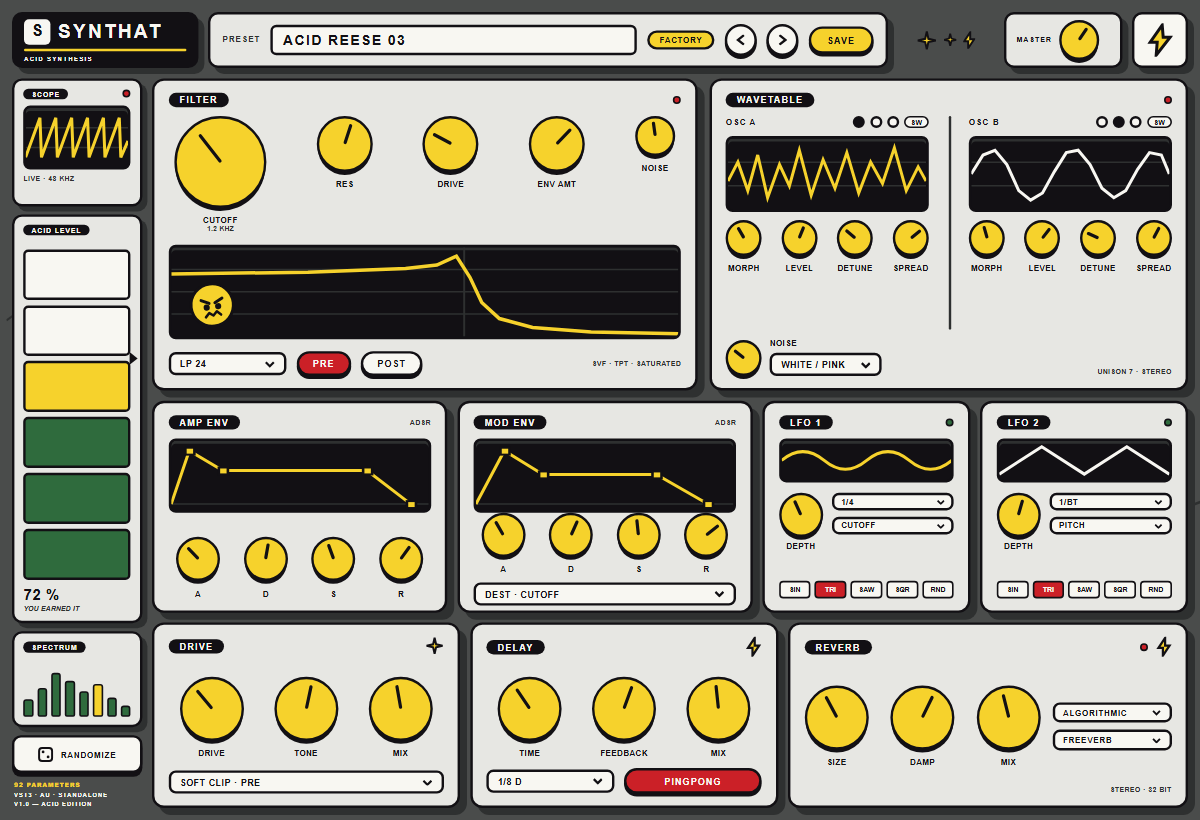
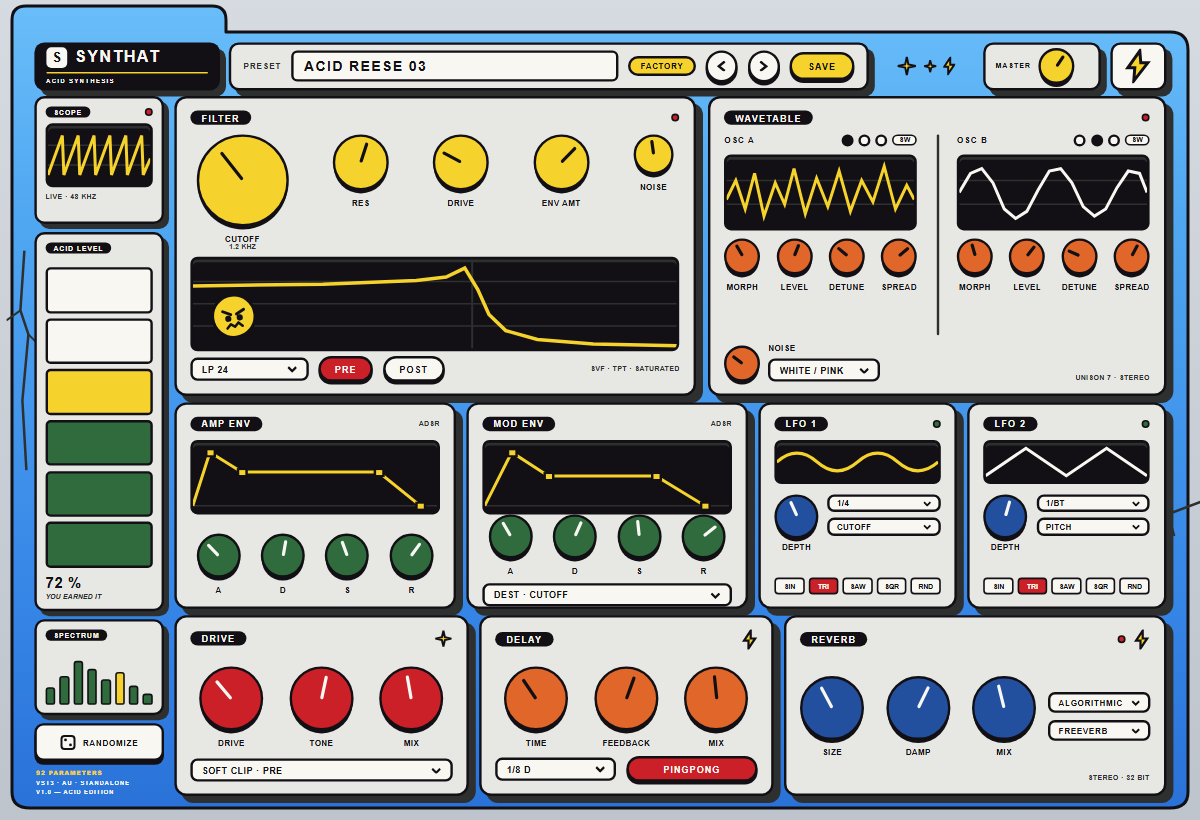
feat: scocca a cartella macOS stilizzata e colori per sezione
La finestra diventa una cartella blu con linguetta in alto a sinistra (path SVG
con contorno inchiostro, ombre piatte street-ink) e i pannelli ci stanno dentro
come fogli. Ripristinata la variazione colore delle manopole per famiglia:
filtro giallo, wavetable/delay arancio, inviluppi verdi, LFO/reverb blu, drive
rosso.

🤖 Generated with Codebuff

diff --git a/synthat/index.html b/synthat/index.html
@@ -13,25 +13,28 @@
     --giallo:#F6D22C;
     --rosso:#CB2027;
     --verde:#2F6B3D;
+    --arancio:#E0662A;
+    --blu:#23509E;
   }
   *{box-sizing:border-box;margin:0;padding:0}
-  html,body{width:1200px;height:820px;overflow:hidden;background:var(--asfalto)}
+  html,body{width:1200px;height:820px;overflow:hidden;background:linear-gradient(180deg,#D6DBE1,#BEC4CC)}
   body{
     font-family:"Arial Narrow","Liberation Sans Narrow","Helvetica Neue",Arial,sans-serif;
     font-weight:700;text-transform:uppercase;letter-spacing:.07em;
     font-size:9px;color:var(--ink);-webkit-font-smoothing:antialiased;
   }
-  .art{position:relative;width:1200px;height:820px;background:var(--asfalto);overflow:hidden}
+  .art{position:relative;width:1200px;height:820px;overflow:hidden}
+  .shell{position:absolute;inset:0}
 
   /* ---------- struttura ---------- */
-  .head{position:absolute;top:12px;left:12px;right:12px;height:56px;display:flex;align-items:stretch;gap:10px}
-  .main{position:absolute;top:78px;left:12px;right:12px;bottom:12px;display:flex;gap:10px}
+  .head{position:absolute;top:42px;left:34px;right:34px;height:48px;display:flex;align-items:stretch;gap:9px}
+  .main{position:absolute;top:96px;left:34px;right:34px;bottom:24px;display:flex;gap:10px}
   .rail{width:130px;flex:none;display:flex;flex-direction:column;gap:8px}
-  .grid{flex:1;display:flex;flex-direction:column;gap:10px;min-width:0}
+  .grid{flex:1;display:flex;flex-direction:column;gap:6px;min-width:0}
   .row{display:flex;gap:12px;min-width:0}
-  .r1{height:314px}
-  .r2{height:212px;gap:10px}
-  .r3{height:186px;gap:10px}
+  .r1{height:300px}
+  .r2{height:207px;gap:10px}
+  .r3{height:181px;gap:10px}
 
   .panel{
     background:var(--panel);border:3px solid var(--ink);border-radius:12px;
@@ -64,6 +67,12 @@
   .k48{width:48px;height:48px}.k44{width:44px;height:44px}.k40{width:40px;height:40px}
   .k36{width:36px;height:36px}.k32{width:32px;height:32px}
   .knobwrap{display:flex;flex-direction:column;align-items:center;gap:9px}
+  /* colore manopole per sezione */
+  .zone-orange .knob{background:var(--arancio)}
+  .zone-green .knob{background:var(--verde)}
+  .zone-blue .knob{background:var(--blu)}
+  .zone-red .knob{background:var(--rosso)}
+  .zone-green .notch,.zone-blue .notch,.zone-red .notch{background:var(--paper)}
   .klab{font-size:7.5px;letter-spacing:.1em;text-align:center;line-height:1.1}
   .kval{font-size:6.5px;letter-spacing:.06em;color:var(--giunto);margin-top:1px}
 
@@ -86,12 +95,12 @@
 
   /* ---------- header ---------- */
   .brand{background:var(--ink);border-radius:10px;box-shadow:6px 6px 0 var(--giunto);
-         padding:7px 12px 6px;display:flex;flex-direction:column;justify-content:center;gap:4px;width:186px;flex:none}
+         padding:5px 12px;display:flex;flex-direction:column;justify-content:center;gap:4px;width:186px;flex:none}
   .brandrow{display:flex;align-items:center;gap:8px}
-  .sbox{width:26px;height:26px;background:var(--paper);border-radius:5px;display:flex;align-items:center;
-        justify-content:center;font-size:16px;letter-spacing:0;color:var(--ink);padding-bottom:2px}
-  .brandtxt{color:var(--paper);font-size:19px;letter-spacing:.12em;line-height:1}
-  .brandrule{height:3px;background:var(--giallo);border-radius:2px}
+  .sbox{width:21px;height:21px;background:var(--paper);border-radius:5px;display:flex;align-items:center;
+        justify-content:center;font-size:13px;letter-spacing:0;color:var(--ink);padding-bottom:1px}
+  .brandtxt{color:var(--paper);font-size:15.5px;letter-spacing:.12em;line-height:1}
+  .brandrule{height:2px;background:var(--giallo);border-radius:2px}
   .brandsub{color:var(--paper);font-size:6px;letter-spacing:.22em;opacity:1}
 
   .presetbar{flex:1;background:var(--panel);border:3px solid var(--ink);border-radius:10px;
@@ -151,6 +160,18 @@
 </head>
 <body>
 <div class="art">
+  <svg class="shell" width="1200" height="820" viewBox="0 0 1200 820" xmlns="http://www.w3.org/2000/svg">
+    <defs>
+      <linearGradient id="fol" x1="0" y1="0" x2="0" y2="1">
+        <stop offset="0" stop-color="#69BDF9"/>
+        <stop offset="0.28" stop-color="#4FA6F1"/>
+        <stop offset="0.75" stop-color="#3585E6"/>
+        <stop offset="1" stop-color="#2A72D8"/>
+      </linearGradient>
+    </defs>
+    <path d="M12 46 V20 Q12 6 26 6 H212 Q226 6 226 20 V32 H1170 Q1188 32 1188 50 V792 Q1188 808 1170 808 H30 Q12 808 12 792 Z"
+          fill="url(#fol)" stroke="#121014" stroke-width="3" stroke-linejoin="round"/>
+  </svg>
 
   <!-- segni d'usura nel fondo finestra -->
   <svg class="mks" style="left:6px;top:250px" width="120" height="220" viewBox="0 0 120 220">
@@ -194,7 +215,7 @@
 
     <div class="mastercard">
       <div class="mlabel">MASTER</div>
-      <div class="knob k40" style="--a:34deg"><i class="notch"></i></div>
+      <div class="knob k36" style="--a:34deg"><i class="notch"></i></div>
     </div>
 
     <div class="boltcard">
@@ -234,7 +255,6 @@
               <div class="seg on"></div>
             </div>
           </div>
-          <div class="pointer"></div>
         </div>
         <div>
           <div class="pct">72 %</div>
@@ -323,7 +343,7 @@
         </div>
 
         <!-- WAVETABLE -->
-        <div class="panel" style="flex:1">
+        <div class="panel zone-orange" style="flex:1">
           <div class="phead"><span class="ptitle">WAVETABLE</span><span class="led"></span></div>
 
           <div class="oscs">
@@ -391,7 +411,7 @@
       <div class="row r2">
 
         <!-- AMP ENV -->
-        <div class="panel" style="flex:1.5">
+        <div class="panel zone-green" style="flex:1.5">
           <div class="phead"><span class="ptitle">AMP ENV</span><span class="note">ADSR</span></div>
           <div class="screen" style="height:74px">
             <svg viewBox="0 0 200 70" preserveAspectRatio="none">
@@ -414,7 +434,7 @@
         </div>
 
         <!-- MOD ENV -->
-        <div class="panel" style="flex:1.5">
+        <div class="panel zone-green" style="flex:1.5">
           <div class="phead"><span class="ptitle">MOD ENV</span><span class="note">ADSR</span></div>
           <div class="screen" style="height:74px">
             <svg viewBox="0 0 200 70" preserveAspectRatio="none">
@@ -440,7 +460,7 @@
         </div>
 
         <!-- LFO 1 -->
-        <div class="panel" style="flex:1">
+        <div class="panel zone-blue" style="flex:1">
           <div class="phead"><span class="ptitle">LFO 1</span><span class="led" style="background:#2F6B3D"></span></div>
           <div class="screen" style="height:44px">
             <svg viewBox="0 0 200 40" preserveAspectRatio="none">
@@ -465,7 +485,7 @@
         </div>
 
         <!-- LFO 2 -->
-        <div class="panel" style="flex:1">
+        <div class="panel zone-blue" style="flex:1">
           <div class="phead"><span class="ptitle">LFO 2</span><span class="led" style="background:#2F6B3D"></span></div>
           <div class="screen" style="height:44px">
             <svg viewBox="0 0 200 40" preserveAspectRatio="none">
@@ -494,7 +514,7 @@
       <div class="row r3">
 
         <!-- DRIVE -->
-        <div class="panel" style="flex:1.5">
+        <div class="panel zone-red" style="flex:1.5">
           <div class="phead"><span class="ptitle">DRIVE</span>
             <svg width="18" height="18" viewBox="0 0 18 18"><path d="M9 1 L10.5 7.5 L17 9 L10.5 10.5 L9 17 L7.5 10.5 L1 9 L7.5 7.5 Z" fill="#F6D22C" stroke="#121014" stroke-width="2"/></svg>
           </div>
@@ -511,7 +531,7 @@
         </div>
 
         <!-- DELAY -->
-        <div class="panel" style="flex:1.5">
+        <div class="panel zone-orange" style="flex:1.5">
           <div class="phead"><span class="ptitle">DELAY</span>
             <svg width="16" height="20" viewBox="0 0 12 18"><path d="M7 1 L1 10 h4 L5 17 L11 8 H7 Z" fill="#F6D22C" stroke="#121014" stroke-width="2"/></svg>
           </div>
@@ -531,7 +551,7 @@
         </div>
 
         <!-- REVERB -->
-        <div class="panel" style="flex:2">
+        <div class="panel zone-blue" style="flex:2">
           <div class="phead"><span class="ptitle">REVERB</span>
             <div class="row-c" style="gap:8px">
               <span class="led"></span>
